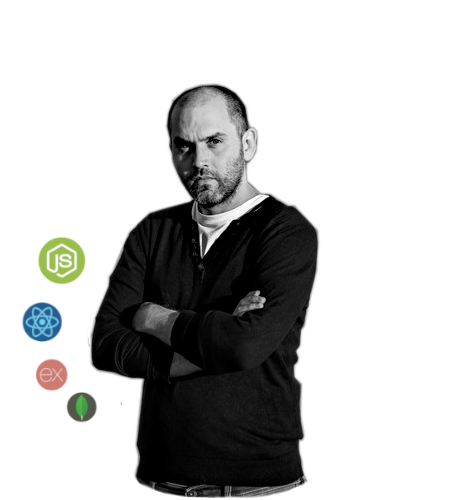
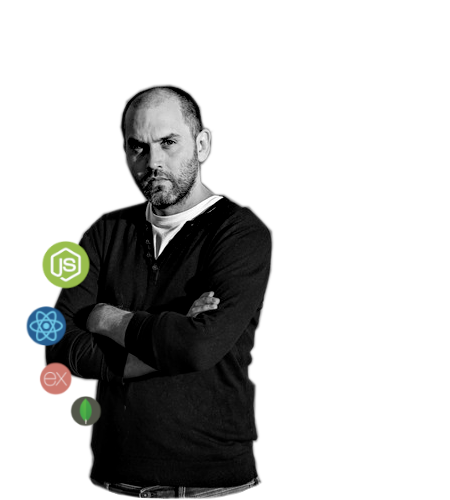
update css

Changed region(s): [[0.0311, 0.15, 0.7156, 1.0]]

diff --git a/frontend/src/container/Header/Header.scss b/frontend/src/container/Header/Header.scss
@@ -23,6 +23,7 @@
   }
   @media screen and (max-width: 1200px) {
     flex-direction: column;
+    padding-top: 5rem;
   }
   @media screen and (max-width: 450px) {
     padding: 4rem 1rem 2rem;
@@ -160,7 +161,7 @@
   position: relative;
 
   img {
-    width: 100%;
+    width: 80%;
     object-fit: contain;
     z-index: 1;
   }

diff --git a/frontend/src/App.scss b/frontend/src/App.scss
@@ -52,7 +52,7 @@
 }
 
 .head-text {
-  font-size: 2.75rem;
+  font-size: 2rem;
   font-weight: 800;
   text-align: center;
   color: var(--black-color);
@@ -67,7 +67,7 @@
   }
 
   @media screen and (max-width: 450px) {
-    font-size: 2rem;
+    font-size: 1.2rem;
   }
 }
 
